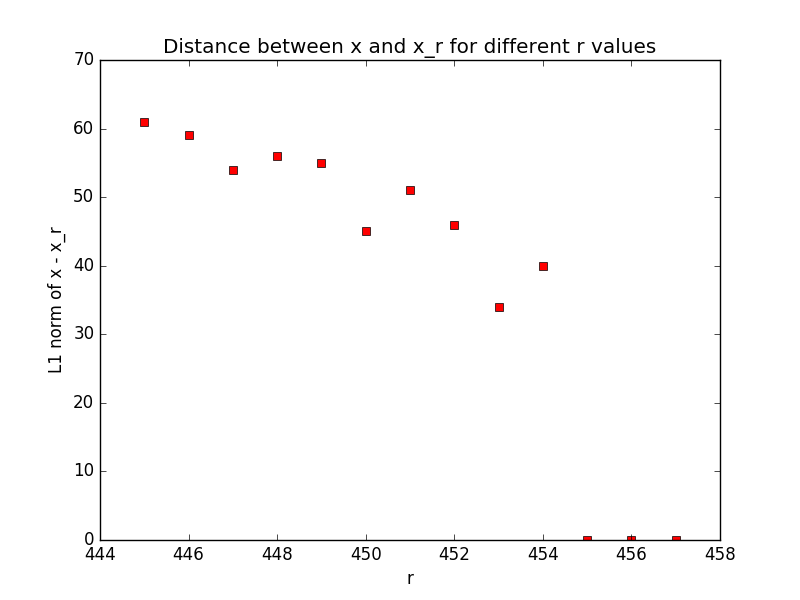
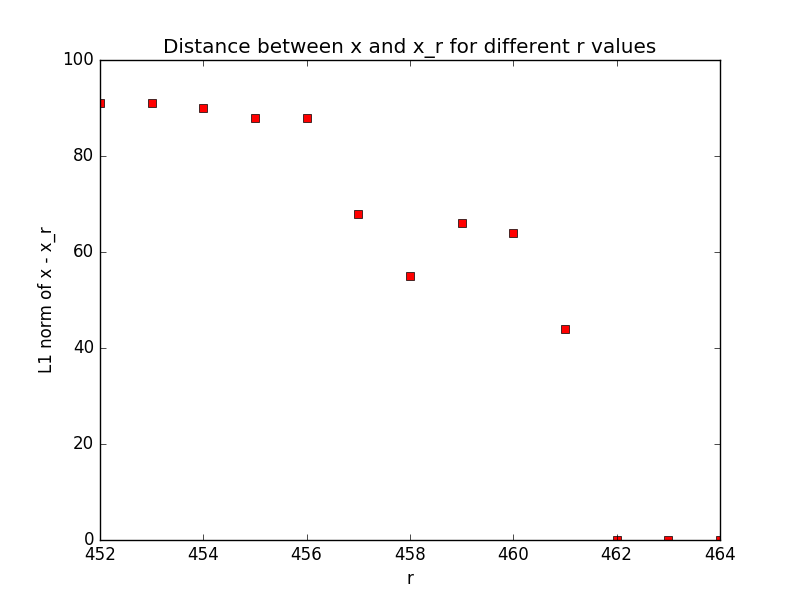
random seed 42

diff --git a/P9/code.py b/P9/code.py
@@ -47,6 +47,7 @@ print("k / n: ", np.sum(image) / (image.shape[0] * image.shape[1]))
 # Part B
 n = 1200
 x = load_text_file_as_array(wonderland_tree)
+np.random.seed(42)
 A = np.random.normal(size=(n, n))
 
 def compressive_sensing(r, binarized = False):
